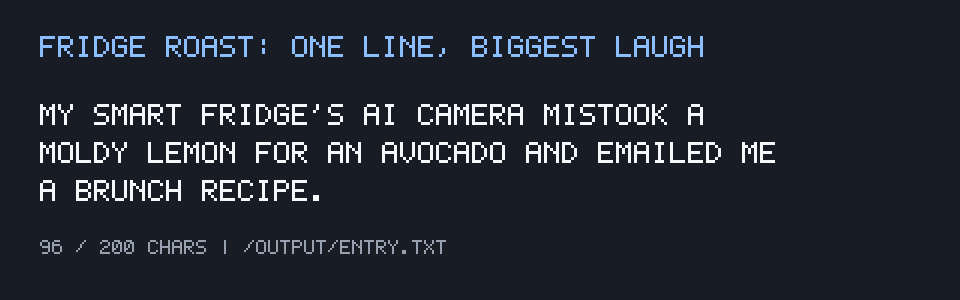
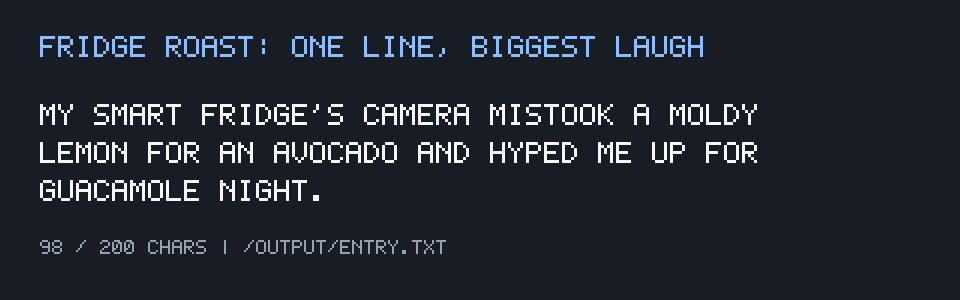
Sharpen punchline to guacamole night and trim subject

diff --git a/main.ts b/main.ts
@@ -4,7 +4,7 @@ import { dirname } from "node:path";
 const OUTPUT_PATH = "/output/entry.txt";
 
 const ROAST =
-  "My smart fridge's AI camera mistook a moldy lemon for an avocado and emailed me a brunch recipe.";
+  "My smart fridge's camera mistook a moldy lemon for an avocado and hyped me up for guacamole night.";
 
 mkdirSync(dirname(OUTPUT_PATH), { recursive: true });
 writeFileSync(OUTPUT_PATH, `${ROAST}\n`, "utf8");
